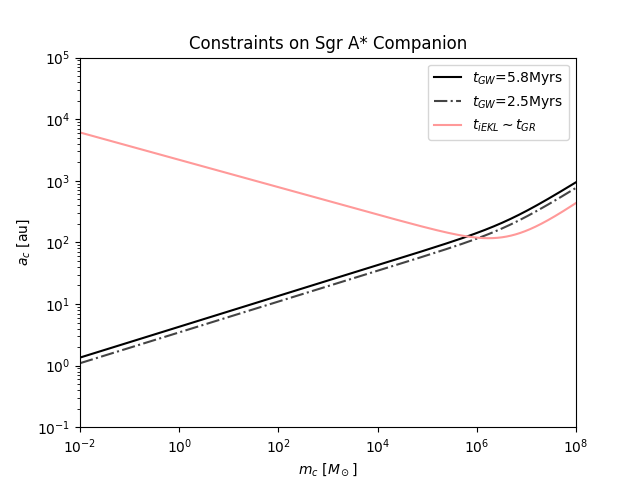
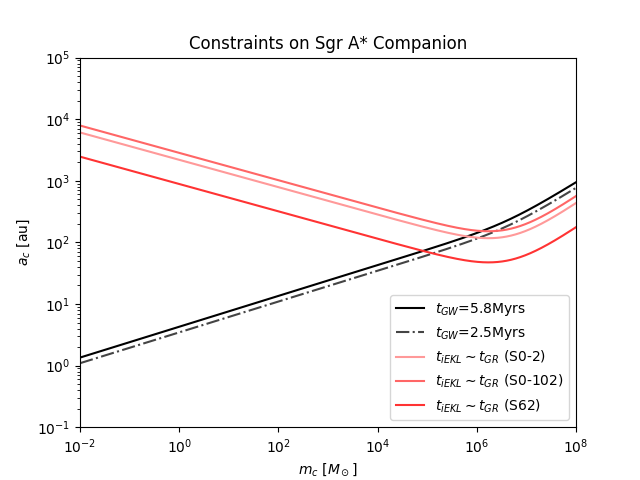
iEKL Constraints + S0-102, S65

diff --git a/constraints/constraints.py b/constraints/constraints.py
@@ -13,7 +13,7 @@ masses = np.arange(1e-2, 1e8, 1e1)
 
 # Define the plot itself.
 plt.title("Constraints on Sgr A* Companion")
-plt.xlabel("$m_c$ $[M_\odot]$")
+plt.xlabel("$m_c$ $[M_\\odot]$")
 plt.ylabel("$a_c$ [au]")
 plt.axis([1e-2, 1e8, 1e-1, 1e5])
 
@@ -52,6 +52,32 @@ observing_objects = [
 		"styling": {
 			"style": 'solid',
 			"color": '#FF9999'
+		}
+	},
+	{
+		"parameters": {
+			"name": "S0-102",
+			"period": 12.8, # years
+			"eccentricity": 0.721,
+			"sm-axis": 881, # 1020, # au
+		},
+		
+		"styling": {
+			"style": 'solid',
+			"color": '#FF6666'
+		}
+	},
+	{
+		"parameters": {
+			"name": "S62",
+			"period": 9.9, # years
+			"eccentricity": 0.976,
+			"sm-axis": 740, # 1020, # au
+		},
+		
+		"styling": {
+			"style": 'solid',
+			"color": '#FF3333'
 		}
 	}
 ]

diff --git a/constraints/modules/iekl.py b/constraints/modules/iekl.py
@@ -29,7 +29,7 @@ def iekl_calculation(plt, masses, orbital_parameters, plot_options):
 	print(result)
 
 	plt.plot(masses, result, 
-		label="$t_{iEKL} \sim t_{GR}$", 
+		label="$t_{iEKL} \\sim t_{GR}$ (%s)" % orbital_parameters["name"], 
 		linestyle=plot_options["style"], 
 		color=plot_options["color"]
 	)
